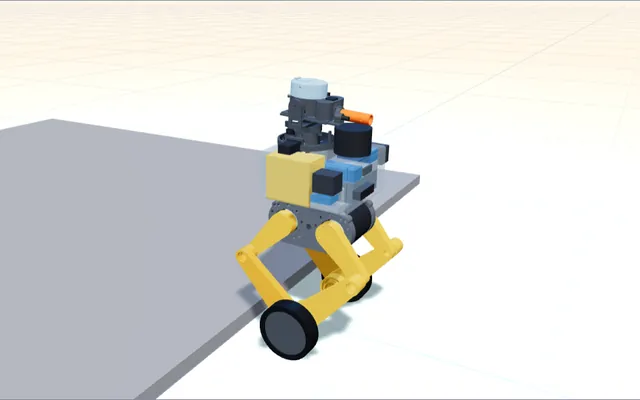
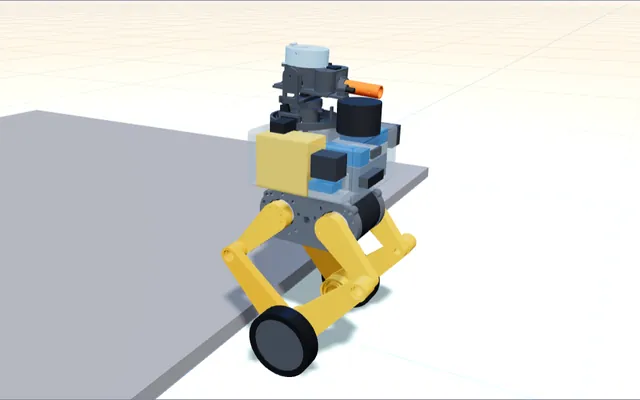
Phone shows the 3D view first; the replay card frames the robot closer
On a narrow screen the replay host now orders the 3D view straight under the
title bar, with the controls and the summary below it, and the scenario select
no longer runs past the host's edge (a 390 px phone had the canvas at 444 px,
under 225 px of controls). scenarios-browser.mjs checks the order at 390 px and
1100 px; on the old stylesheet it fails (canvas 444 px, controls 219 px, select
421 px past a 374 px host).

The card capture brings the camera nearer after Fit (and slightly lower, so the
wheels stay in frame after the drop): mean frame-to-frame change 1.04 % of full
scale (7.4 % of pixels), up from 0.91 %, against 0.22 % for the hero turret
recording. Both captures are re-recorded for the stylesheet change.

Refs #798

Claude-Session: https://claude.ai/code/session_01X6BLR8ZbMMUynv9Rte1ovY

diff --git a/software/cadagent/webkit/simulation/viewer.css b/software/cadagent/webkit/simulation/viewer.css
@@ -20,4 +20,5 @@ h1{margin:.15em 0;font-size:clamp(25px,2.3vw,42px);line-height:1.15}.replay-assu
 .replay-evidence summary{cursor:pointer;font-weight:650}.replay-evidence nav{display:flex;flex-wrap:wrap;gap:12px 24px}.replay-evidence nav a{min-height:32px}
 #receipt-status{color:var(--muted);font-size:14px;overflow-wrap:anywhere}footer{display:flex;flex-wrap:wrap;justify-content:space-between;gap:12px;padding-block:20px 30px}
 .replay-load-message{margin:0;height:100%;display:grid;align-content:center;justify-content:center;gap:16px;border:1px solid var(--line-2);border-radius:14px;background:var(--soft);color:var(--ink);text-align:center;padding:24px}.replay-retry{min-height:44px;padding:10px 18px;background:var(--card);color:var(--ink);border:1px solid var(--line-3);border-radius:8px;cursor:pointer}
-@media(max-width:600px){.replay-stage.replay-stage-tall{height:min(780px,max(620px,94svh))}.replay-scenario{flex-basis:100%}.replay-scenario select{flex:1}.replay-page-header{align-items:flex-start}.replay-stage{height:620px}.replay-controls{gap:8px}.replay-controls .replay-time{order:3;flex-basis:100%}.replay-readout{margin-left:auto}.replay-controls>label:last-child{order:2}.cad-replay-host .cad-viewer-inspector{overflow:auto}.cad-replay-host .cad-viewer-selection{font-size:11px}}
+/* A phone shows the 3D view first, under the title bar, with the controls and summary below it (#798). */
+@media(max-width:600px){.replay-stage,.replay-stage.replay-stage-tall{height:auto}.cad-replay-host,.cad-replay-host.cad-replay-summarised{height:auto;grid-template-rows:auto minmax(300px,min(56svh,520px)) auto auto auto}.cad-replay-host>.cad-viewer-content{order:1}.cad-replay-host>.replay-controls{order:2;border-bottom:0;border-top:1px solid var(--viewer-line)}.cad-replay-host>.replay-summary{order:3}.cad-replay-host>.cad-viewer-selection{order:4}.replay-scenario{flex-basis:100%;min-width:0}.replay-scenario select{flex:1 1 0;min-width:0;max-width:100%}.replay-page-header{align-items:flex-start}.replay-controls{gap:8px}.replay-controls .replay-time{order:3;flex-basis:100%}.replay-readout{margin-left:auto}.replay-controls>label:last-child{order:2}.cad-replay-host .cad-viewer-inspector{overflow:auto}.cad-replay-host .cad-viewer-selection{font-size:11px}}
